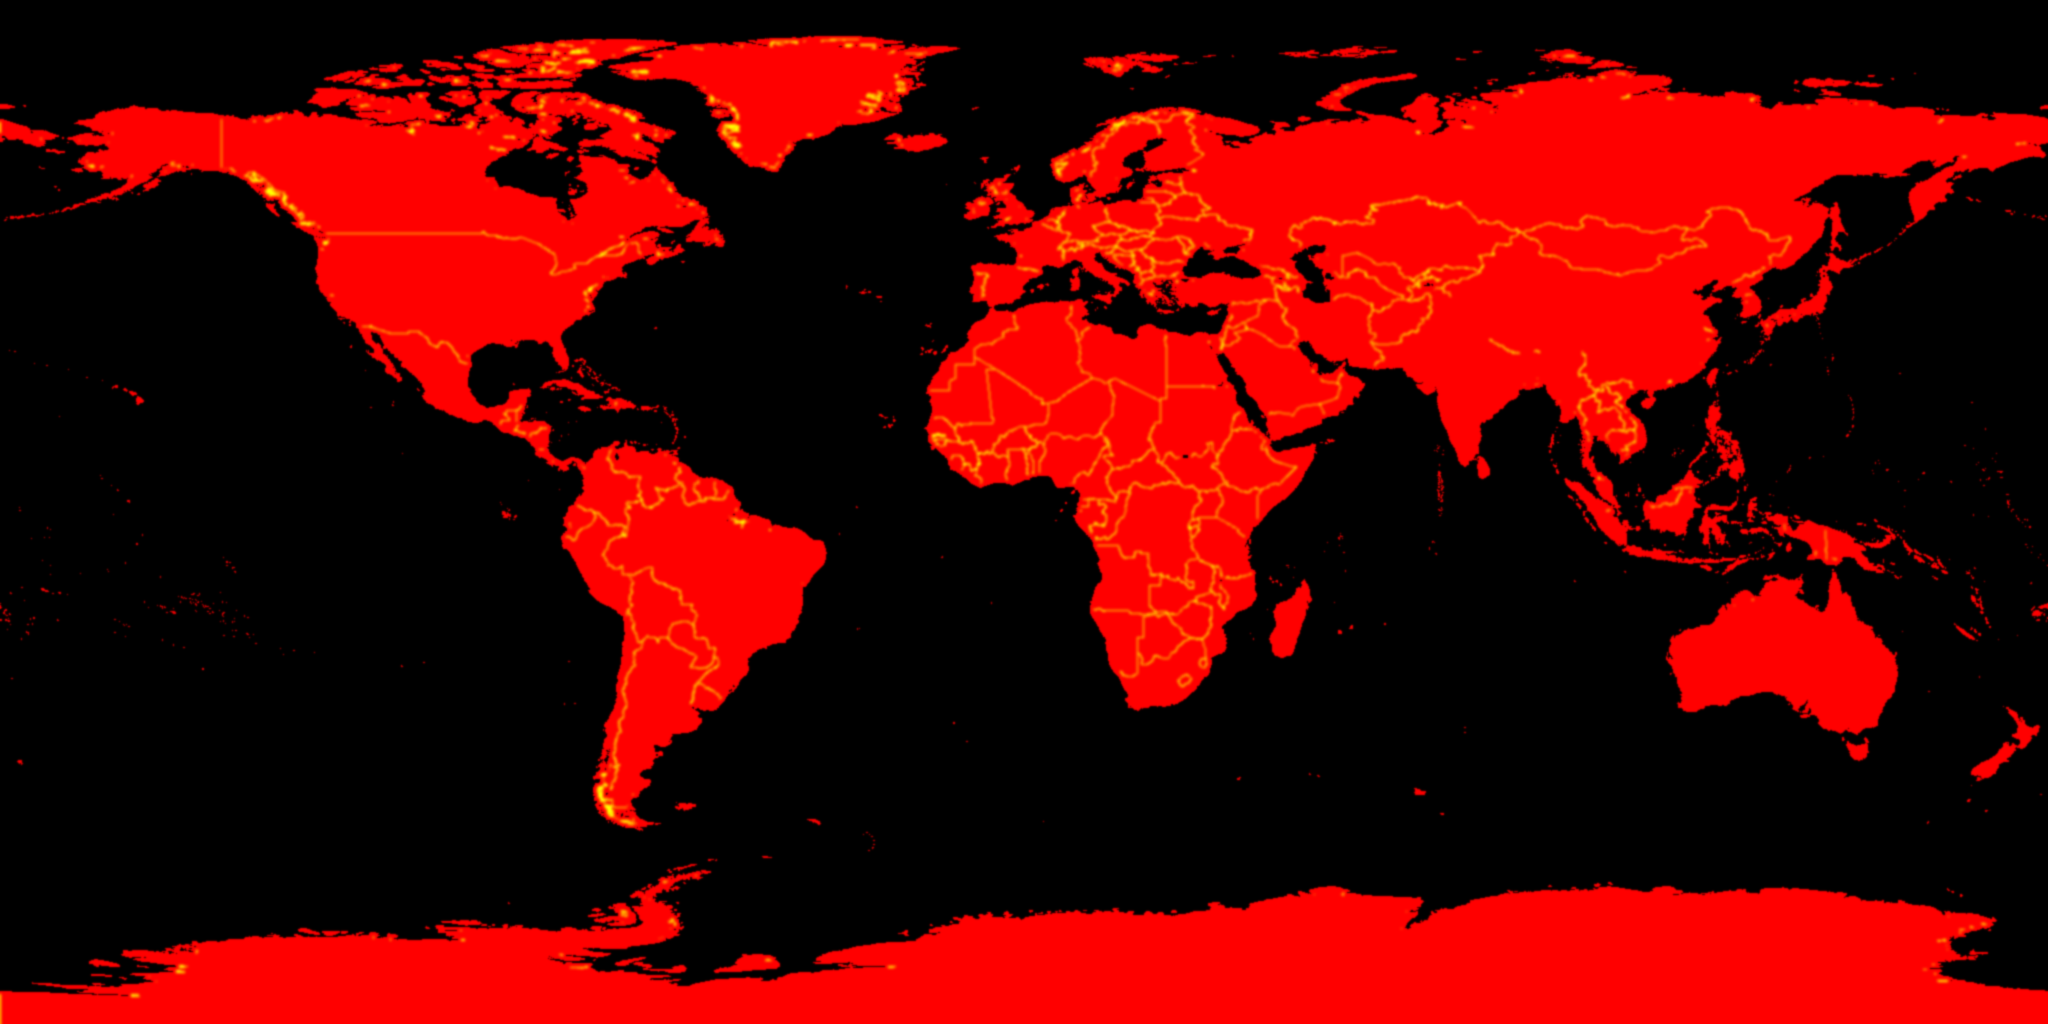
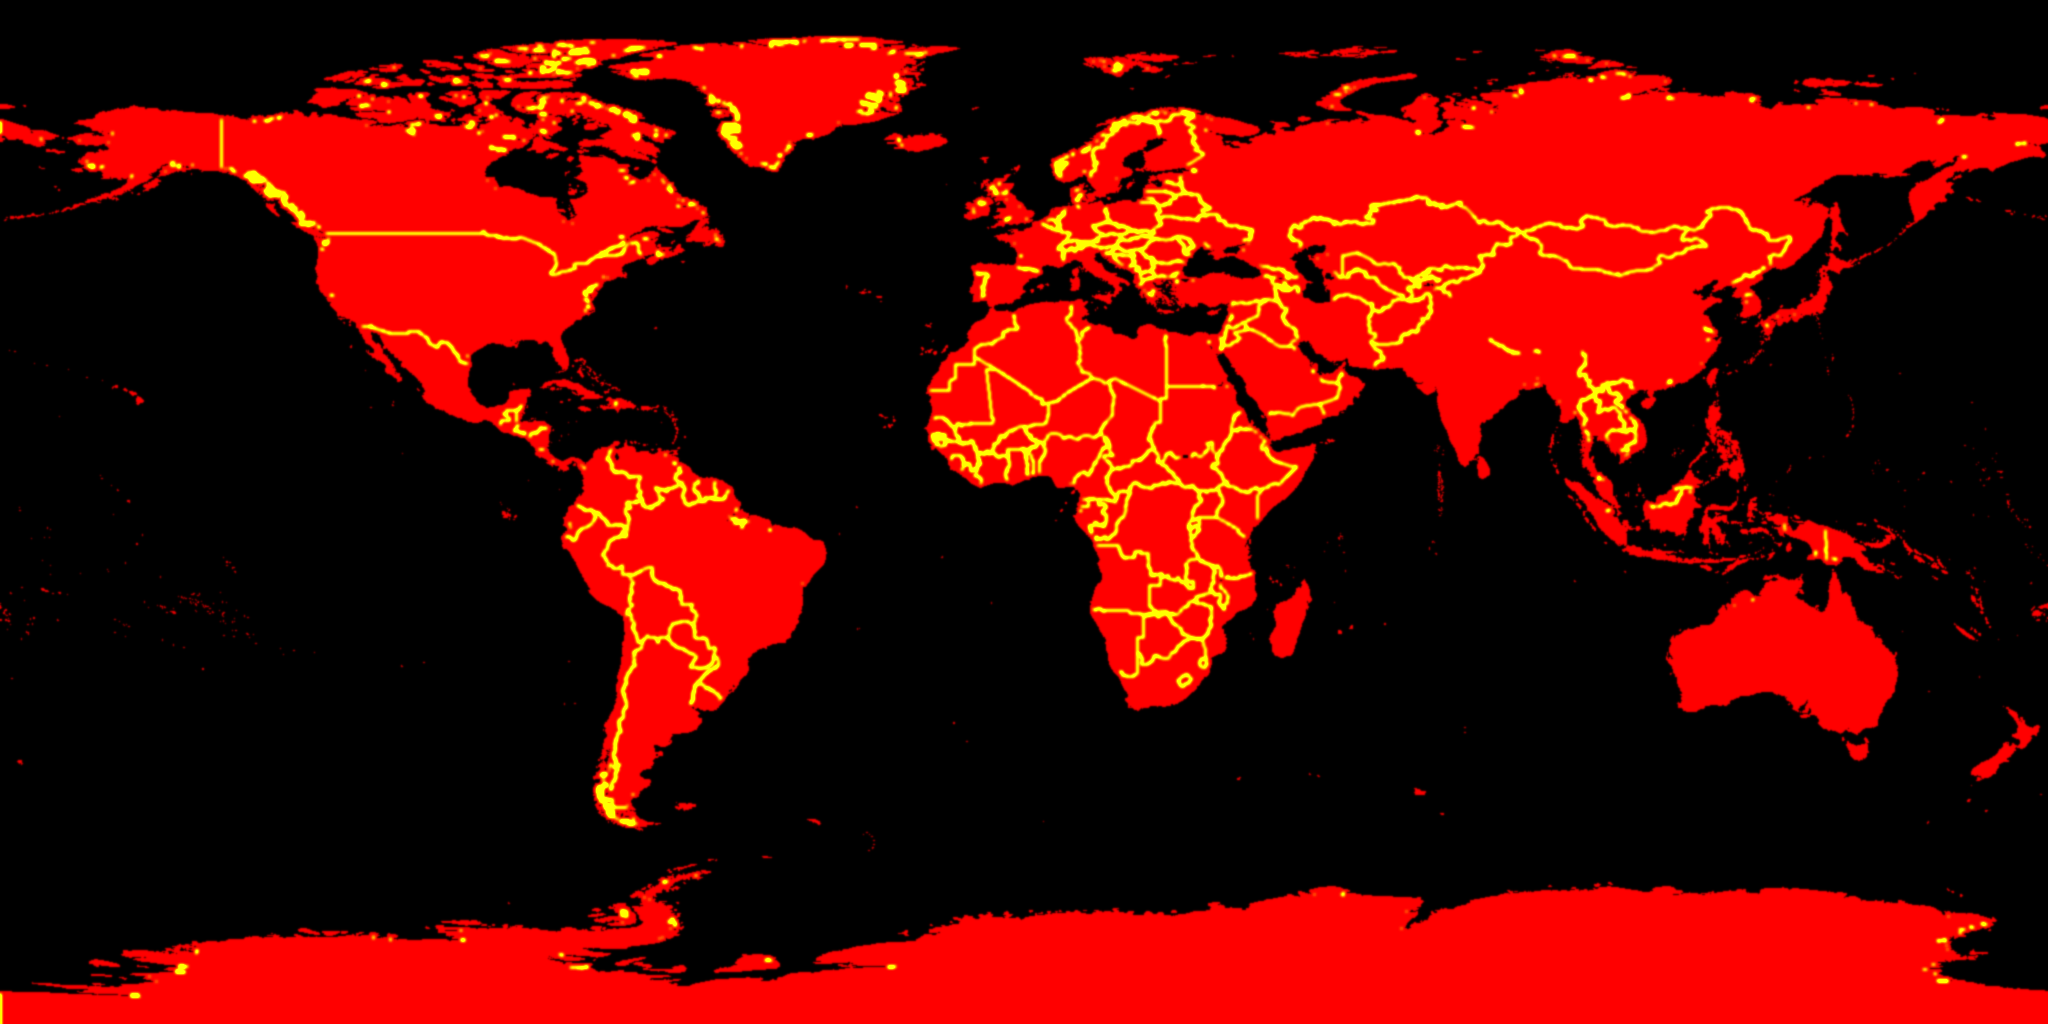
fix(admin): country borders actually show on the Live view globe
Border strength was scaled by the brightest pixel on the map (a junction), so
ordinary border lines came out too dim to pass the shader's threshold. Scale
each blurred line by the Gaussian's own peak instead, and draw borders thin
and subtle (coasts stay stronger).

Claude-Session: https://claude.ai/code/session_01YESM8Gw9YoGcyt9e54NYQr

diff --git a/apps/admin/src/components/analytics/live-globe/webgl/globe-renderer.ts b/apps/admin/src/components/analytics/live-globe/webgl/globe-renderer.ts
@@ -64,12 +64,12 @@ vec2 st=vec2(u,.5-lat/3.1415927);vec4 m=texture2D(T,st);
 float land=H*smoothstep(.3,.7,m.r);
 float coast=H*(1.-smoothstep(.6,1.4,abs(m.r-.5)/max(fwidth(m.r),1e-4)));
 float px=max(fwidth(st.x*2048.),1e-4);float bd=1.4*sqrt(-2.*log(max(m.g,1e-3)))/px;
-float border=H*step(.03,m.g)*(1.-smoothstep(.55,1.3,bd));
+float border=H*step(.03,m.g)*(1.-smoothstep(.2,.8,bd));
 vec3 ocean=C*(pow(i,.4)*(1.-V.w)+.1)+pow(1.-i,4.)*G;
 vec3 ground=mix(C*.42,C*1.9+.08,V.w)*(pow(i,.5)*.85+.15)+pow(1.-i,4.)*G;
 vec3 col=mix(ocean,ground,land*smoothstep(0.,.18,i));
 vec3 line=mix(C*1.25+.12,C*2.3+.2,V.w);float rim=smoothstep(0.,.3,i);
-col=mix(col,line,coast*rim*.8);col=mix(col,line,border*rim*.75);
+col=mix(col,line,coast*rim*.8);col=mix(col,line,border*rim*.4);
 float g1=grid(degrees(lat)/15.);float lx=u*24.;float g2=grid(lx)*smoothstep(.97,.88,abs(w.y));
 float g=max(g1,g2)*smoothstep(0.,.25,i)*(.1+.08*V.w);
 col=mix(col,G*.9+C*.3,g);

diff --git a/scripts/globe/make-globe-map.py b/scripts/globe/make-globe-map.py
@@ -68,8 +68,11 @@ def main(src: str, out: str) -> None:
     band = ImageChops.subtract(india.filter(ImageFilter.MaxFilter(9)), india.filter(ImageFilter.MinFilter(9)))
     lines = ImageChops.multiply(lines, ImageChops.invert(band))
     lines = lines.filter(ImageFilter.GaussianBlur(BLUR))
-    peak = max(lines.getextrema()[1], 1)
-    lines = lines.point(lambda v: min(255, round(v * 255 / peak)))
+    # A 1 px line blurred by a Gaussian of sigma BLUR peaks at 1 / (sqrt(2 pi) * BLUR) of its
+    # value. Scale by the inverse so every line's centre is ~255 and the value falls off as
+    # exp(-d^2 / 2 sigma^2): the shader turns it back into a distance from the line.
+    gain = (2 * 3.14159265 * 1) ** 0.5 * BLUR
+    lines = lines.point(lambda v: min(255, round(v * gain)))
     soft_land = land.filter(ImageFilter.GaussianBlur(0.9))
     Image.merge("RGB", (soft_land, lines, Image.new("L", (WIDTH, HEIGHT), 0))).save(out, optimize=True)
 
